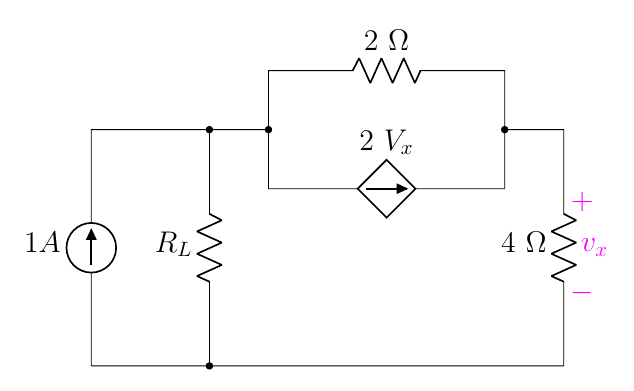
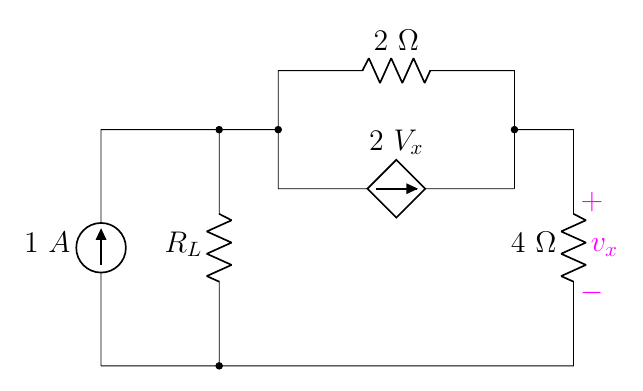
1.1

diff --git a/new assign/1.0 Thevenin/1.1.tex b/new assign/1.0 Thevenin/1.1.tex
@@ -4,7 +4,7 @@
     \input{../../preamble2.tex}
 
     \draw(0,0) 
-        to[I,l=$1A$] ++(0,4)
+        to[I,l=$1\ A$] ++(0,4)
         to[short] ++(2,0)
         to[R,l_=$R_L$,*-*] ++(0,-4)
         to[short] ++(-2,0) ++(2,4)
